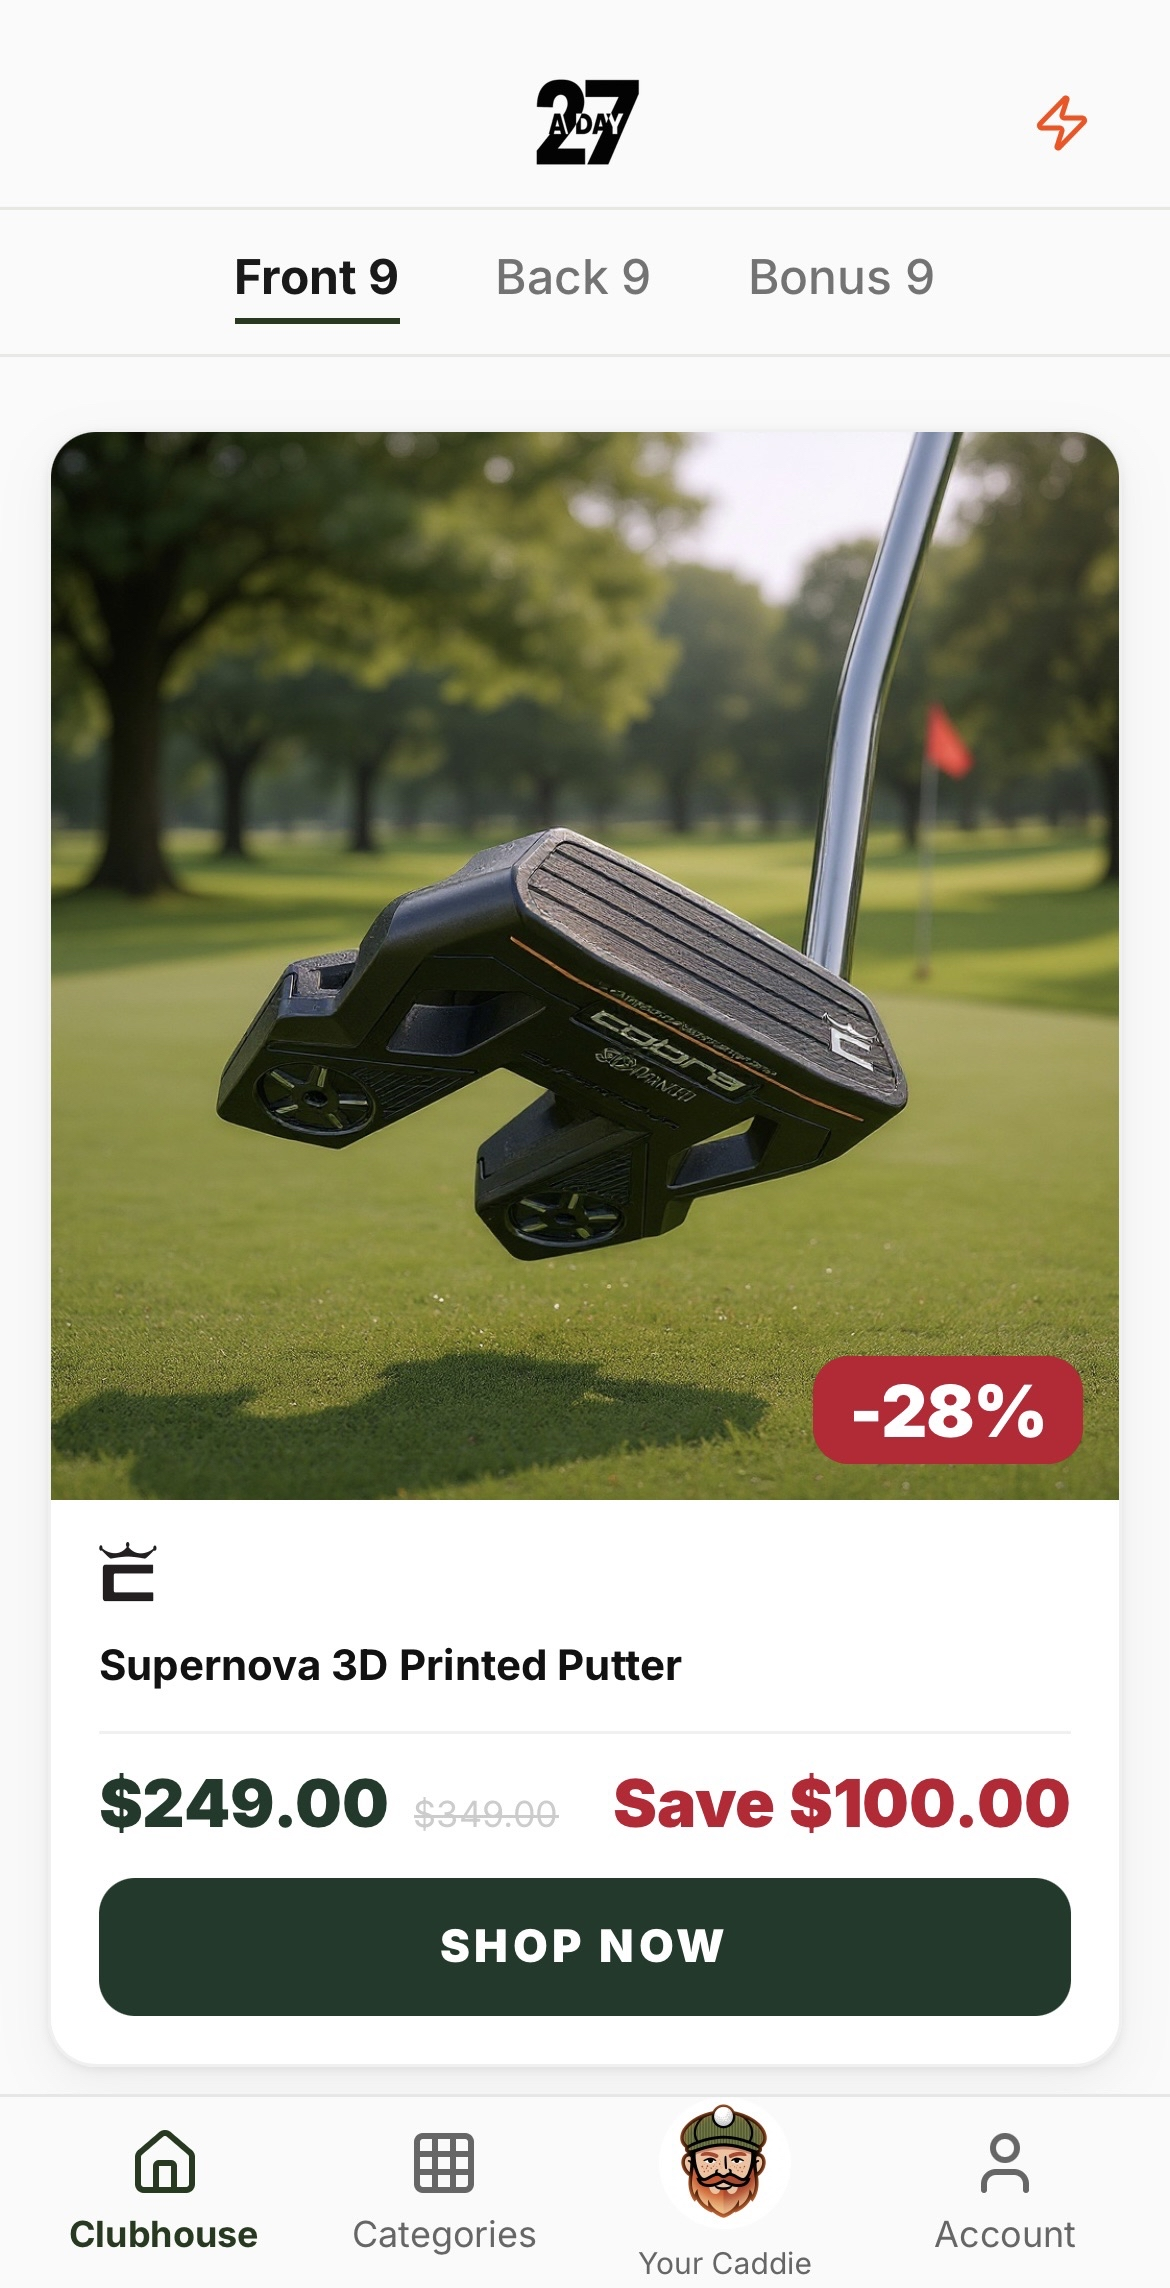
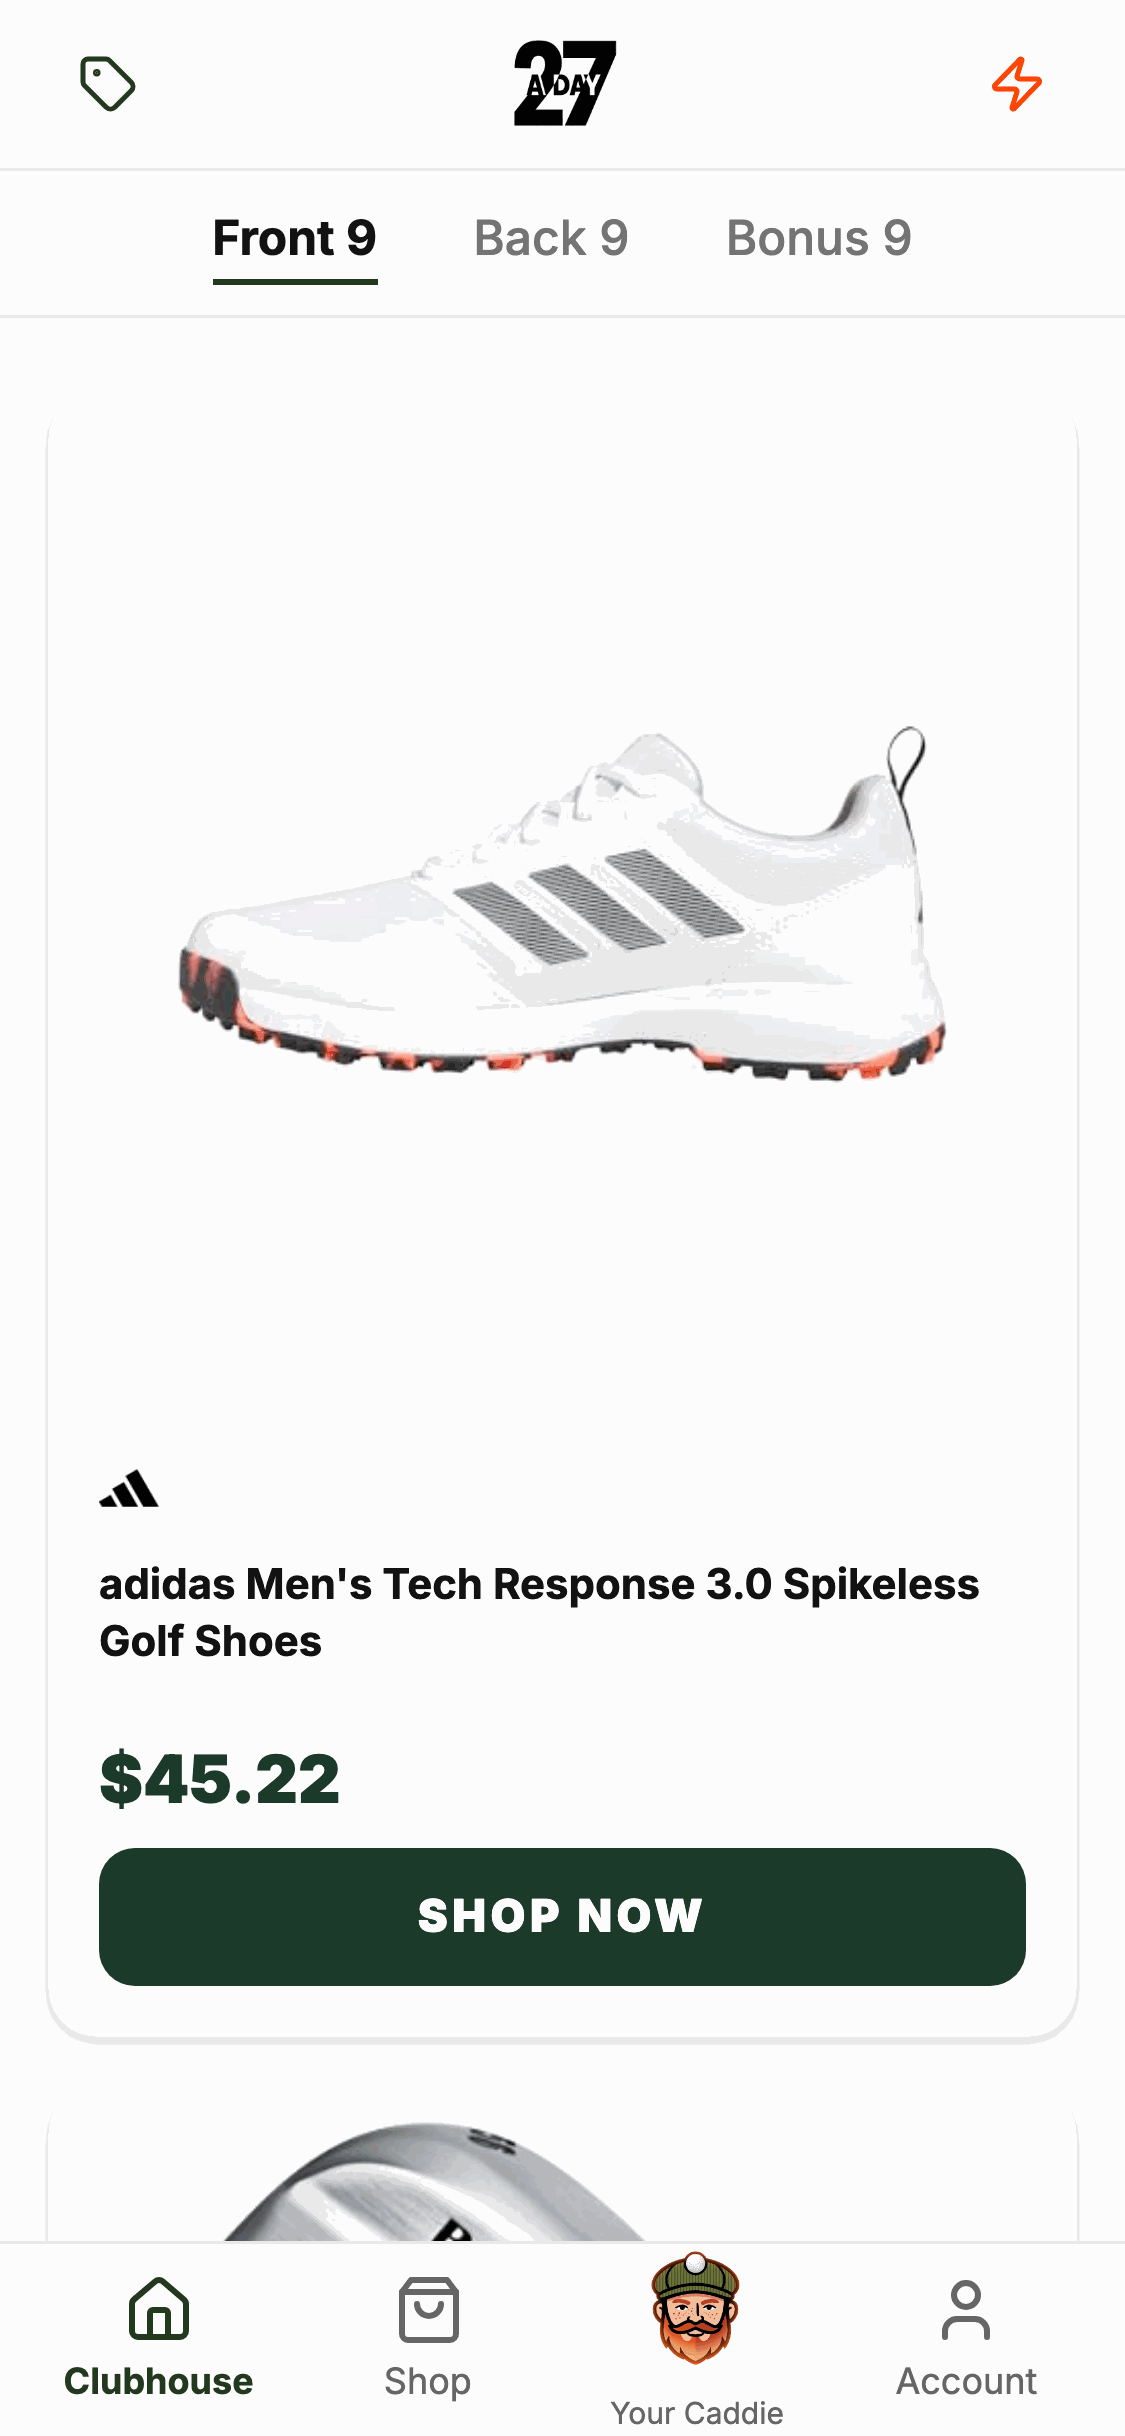
Replace hero app screenshot with real Front 9 capture
Old screenshot showed an AI-generated putter with garbled Cobra
branding. New capture is the live app feed after the image priority
fix, real adidas product photo, 3x resolution, 1.6MB to 71KB.

diff --git a/index.html b/index.html
@@ -188,7 +188,7 @@
             <div class="relative w-[280px] md:w-[320px]">
               <!-- Phone frame -->
               <div class="rounded-[3rem] border-[8px] border-forest/90 shadow-2xl shadow-forest/20 overflow-hidden">
-                <img src="/src/assets/app-screenshot.png" alt="27aDay app showing the Cobra Supernova 3D Printed Putter deal" class="w-full block" />
+                <img src="/src/assets/app-screenshot.png" alt="27aDay app showing today's Front 9 golf deals" class="w-full block" />
               </div>
               <!-- Notch -->
               <div class="absolute top-0 left-1/2 -translate-x-1/2 w-28 h-7 bg-forest/90 rounded-b-2xl"></div>